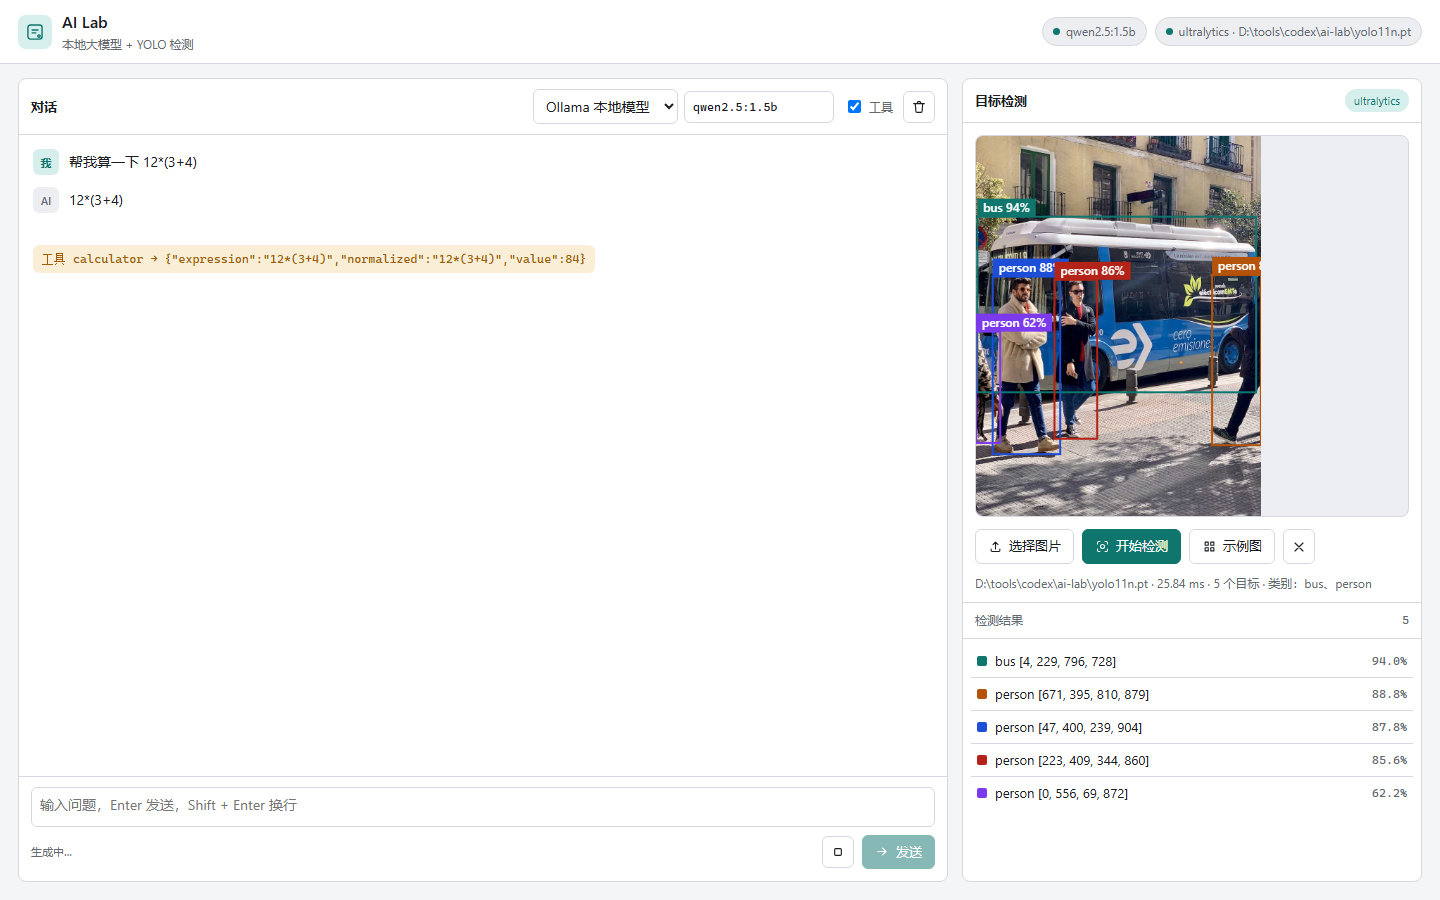
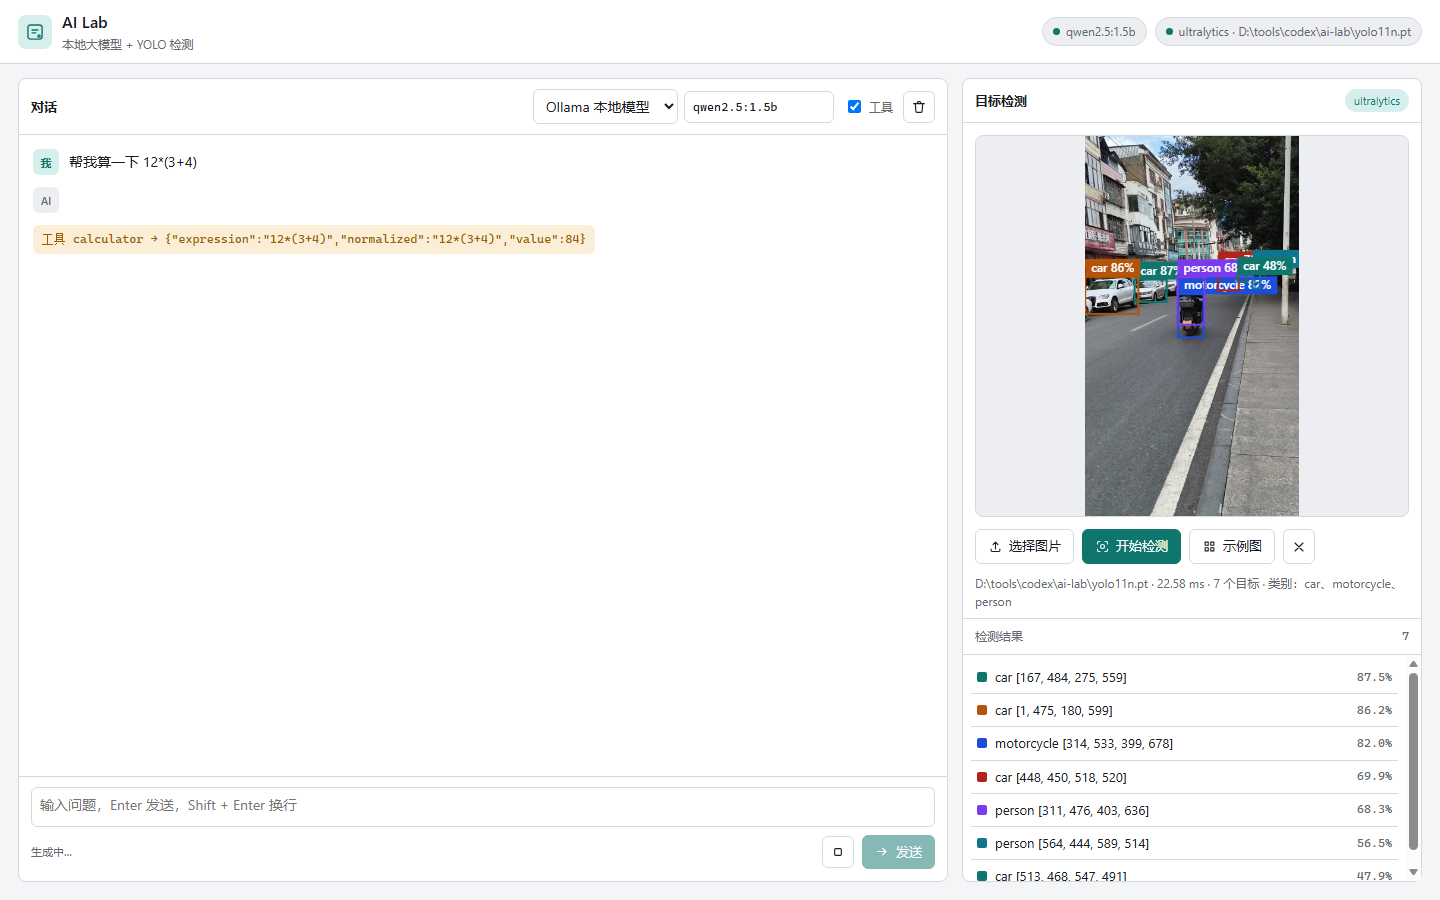
docs: 更新真实街景照片的检测结果
把训练记录和工程日志里的实测数据换成这张照片的真实结果，
并说明为什么应用演示用 COCO 预训练权重、自己训练的权重只用于验证流程。

diff --git a/docs/YOLO训练记录.md b/docs/YOLO训练记录.md
@@ -226,19 +226,32 @@ python tools\start_background.py --provider ollama --model qwen2.5:1.5b ^
   "ok": true,
   "engine": "ultralytics",
   "model": "yolo11n.pt",
-  "width": 810, "height": 1080,
-  "elapsed_ms": 25.84,
+  "width": 720, "height": 1280,
+  "elapsed_ms": 22.58,
   "boxes": [
-    {"x1": 3.8, "y1": 229.36, "x2": 796.22, "y2": 728.41,
-     "score": 0.9403, "label": "bus", "cls": 5},
-    {"x1": 671.02, "y1": 394.81, "x2": 809.81, "y2": 878.72,
-     "score": 0.8882, "label": "person", "cls": 0}
+    {"x1": 167.02, "y1": 483.57, "x2": 275.23, "y2": 558.74,
+     "score": 0.8748, "label": "car", "cls": 2},
+    {"x1": 314.39, "y1": 532.92, "x2": 399.28, "y2": 678.17,
+     "score": 0.8203, "label": "motorcycle", "cls": 3}
   ]
 }
 ```
 
-实测：真实照片（一辆公交车 + 四名行人）上，模型给出 bus 0.94、
-person 0.89 / 0.88 / 0.86 / 0.62，全部正确，单张 25.8 ms。
+实测用的是一张真实街景照片（项目自带的 `web/samples/street.jpg`），
+模型识别出 **7 个目标**：
+
+| 目标 | 置信度 |
+| --- | --- |
+| car | 0.87 |
+| car | 0.86 |
+| motorcycle（电动车） | 0.82 |
+| car | 0.70 |
+| person（骑车的人） | 0.68 |
+| person（行人） | 0.56 |
+| car（远处） | 0.48 |
+
+单张 22.6 ms（GPU）。照片里的车辆、电动车和行人都被正确框出，
+说明换用 COCO 预训练权重之后，真实场景是能用的。
 
 ---
 

diff --git a/docs/开发日志.md b/docs/开发日志.md
@@ -64,8 +64,7 @@ AMP 自检需要下载模型文件，GitHub 依旧不通，日志提示自检被
 
 ### 换成真实照片后发现的真问题
 
-把示例图从程序画的"卡通街景"换成真实照片（ultralytics 自带的 bus.jpg、
-zidane.jpg）之后，立刻暴露一个问题：
+把示例图从程序画的"卡通街景"换成真实照片之后，立刻暴露一个问题：
 
 **自己训练的模型在真实照片上几乎什么都检不出来。**
 
@@ -75,10 +74,12 @@ zidane.jpg）之后，立刻暴露一个问题：
 处理办法是分两条线，并在文档里写清楚各自的用途：
 
 - **应用演示**用 COCO 预训练权重 `yolo11n.pt`（80 个真实类别），
-  真实照片上能正确识别出公交车和行人；
+  真实照片上能正确识别出车辆、电动车和行人；
 - **自己训练的权重**用来证明训练流程跑通，只在合成风格图片上有效。
 
-真实照片上的实测结果：bus 0.94、person 0.89 / 0.88 / 0.86 / 0.62，单张 25.8 ms。
+最终示例图用的是自己的街景照片（`web/samples/street.jpg`），
+实测识别出 7 个目标：4 辆车、1 辆电动车、2 个人，其中最高置信度 0.87，
+单张 22.6 ms。
 
 ### 顺带清理
 

diff --git a/README.md b/README.md
@@ -24,7 +24,7 @@
 | 4. 应用形式 | CLI（`run_cli.py`）、Web（`web/`）、桌面（`desktop/`，Edge 应用模式 + Electron 两种） |
 | 二 1. 完成一次 Ultralytics 训练 | **已跑通**：YOLO11n，100 epochs，RTX 4060 上 1.5 分钟，mAP50 **0.995**，详见 [YOLO 训练记录](docs/YOLO训练记录.md) |
 | 二 2. 实时推理部署 | `yolo/infer.py`（图片/目录/视频）、`yolo/realtime.py`（摄像头 + FPS）、`yolo/export.py`（导出 ONNX/TensorRT）、`yolo/serve.py`（独立推理服务） |
-| 二 3. 接入应用 | **已接通**：上传真实照片 → ultralytics 推理 → 前端 canvas 画框；示例照片上公交车与 4 名行人全部命中 |
+| 二 3. 接入应用 | **已接通**：上传真实照片 → ultralytics 推理 → 前端 canvas 画框；示例街景照片上 4 辆车、1 辆电动车、2 个行人共 7 个目标全部命中 |
 
 ---
 
